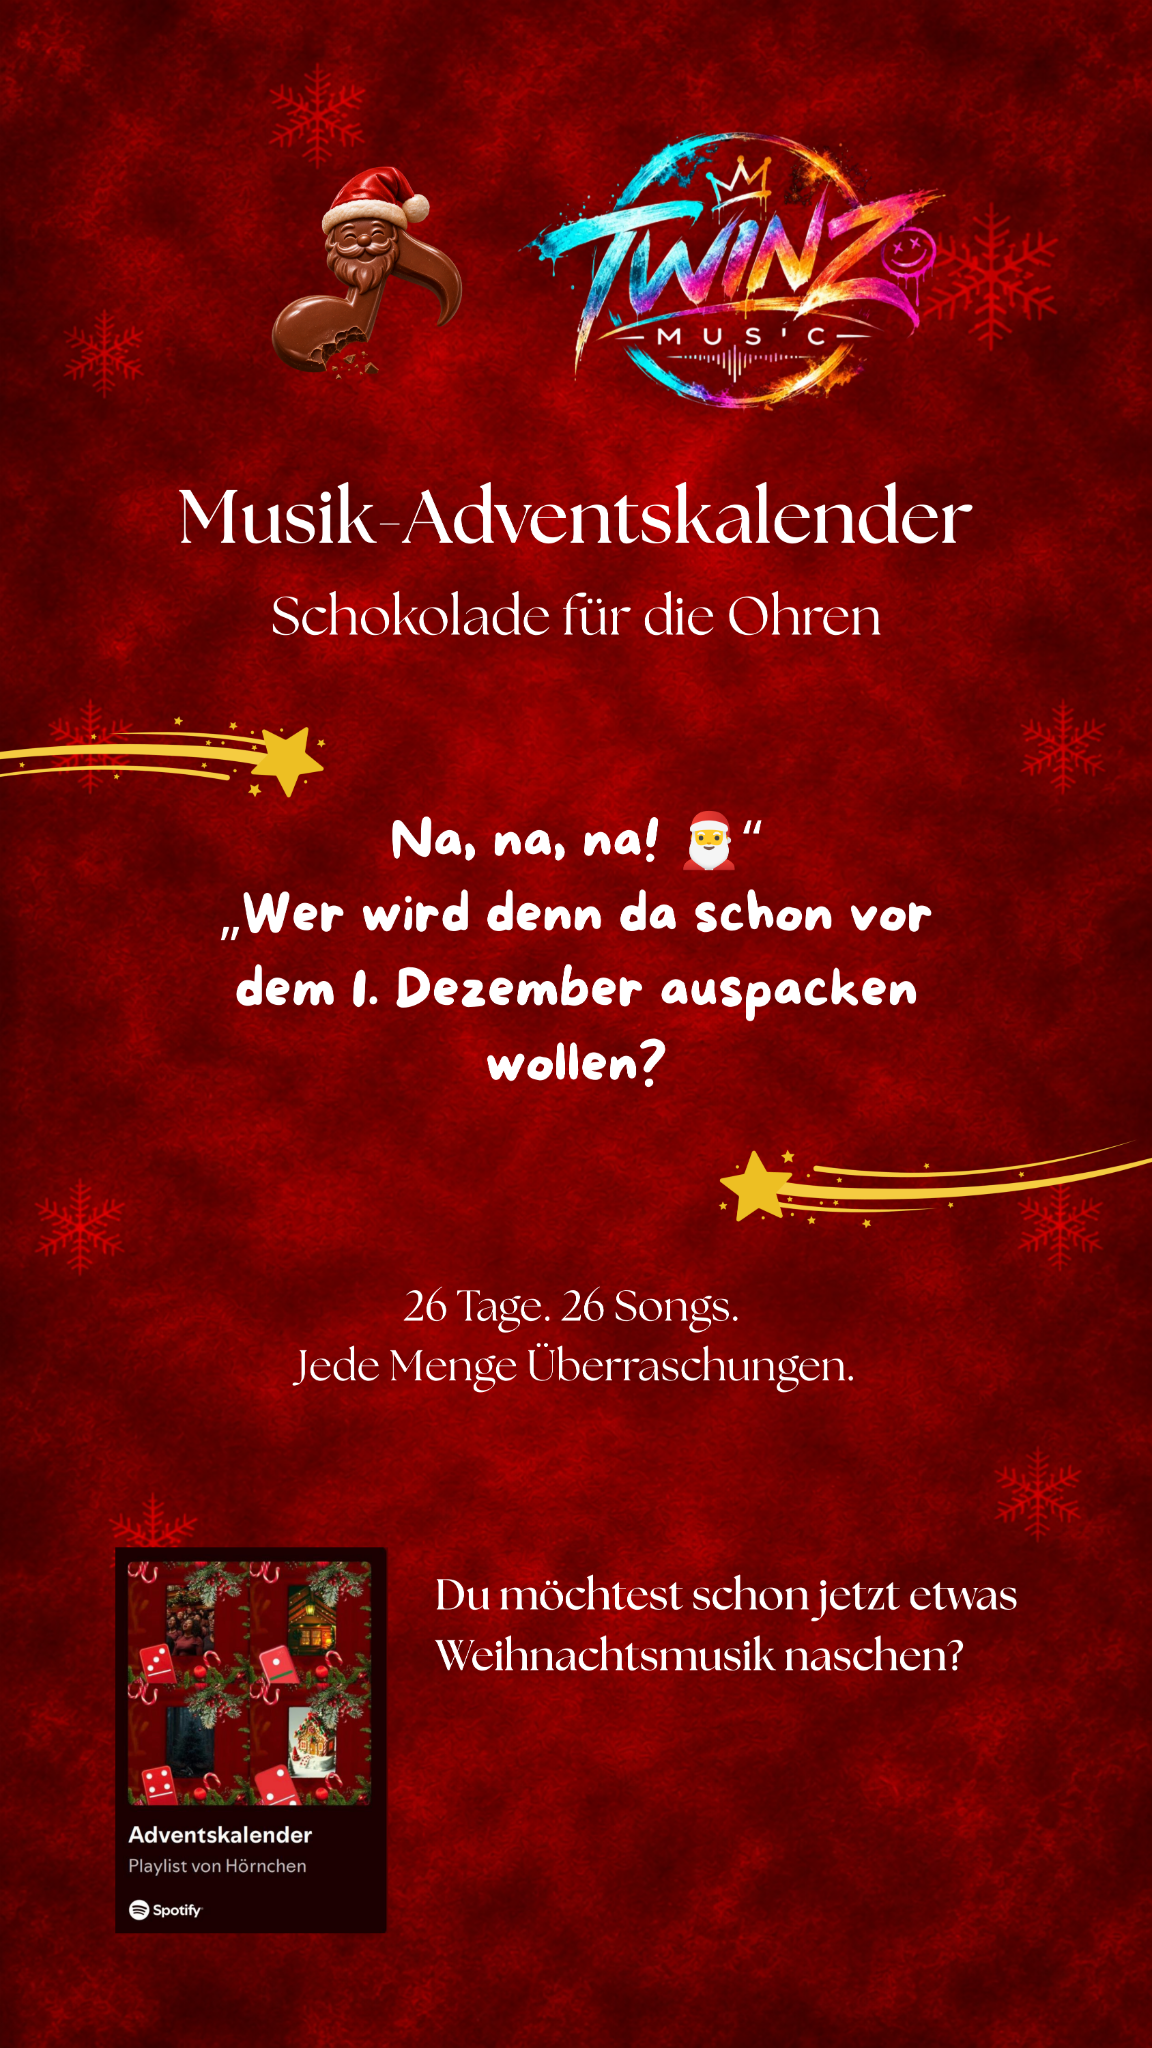
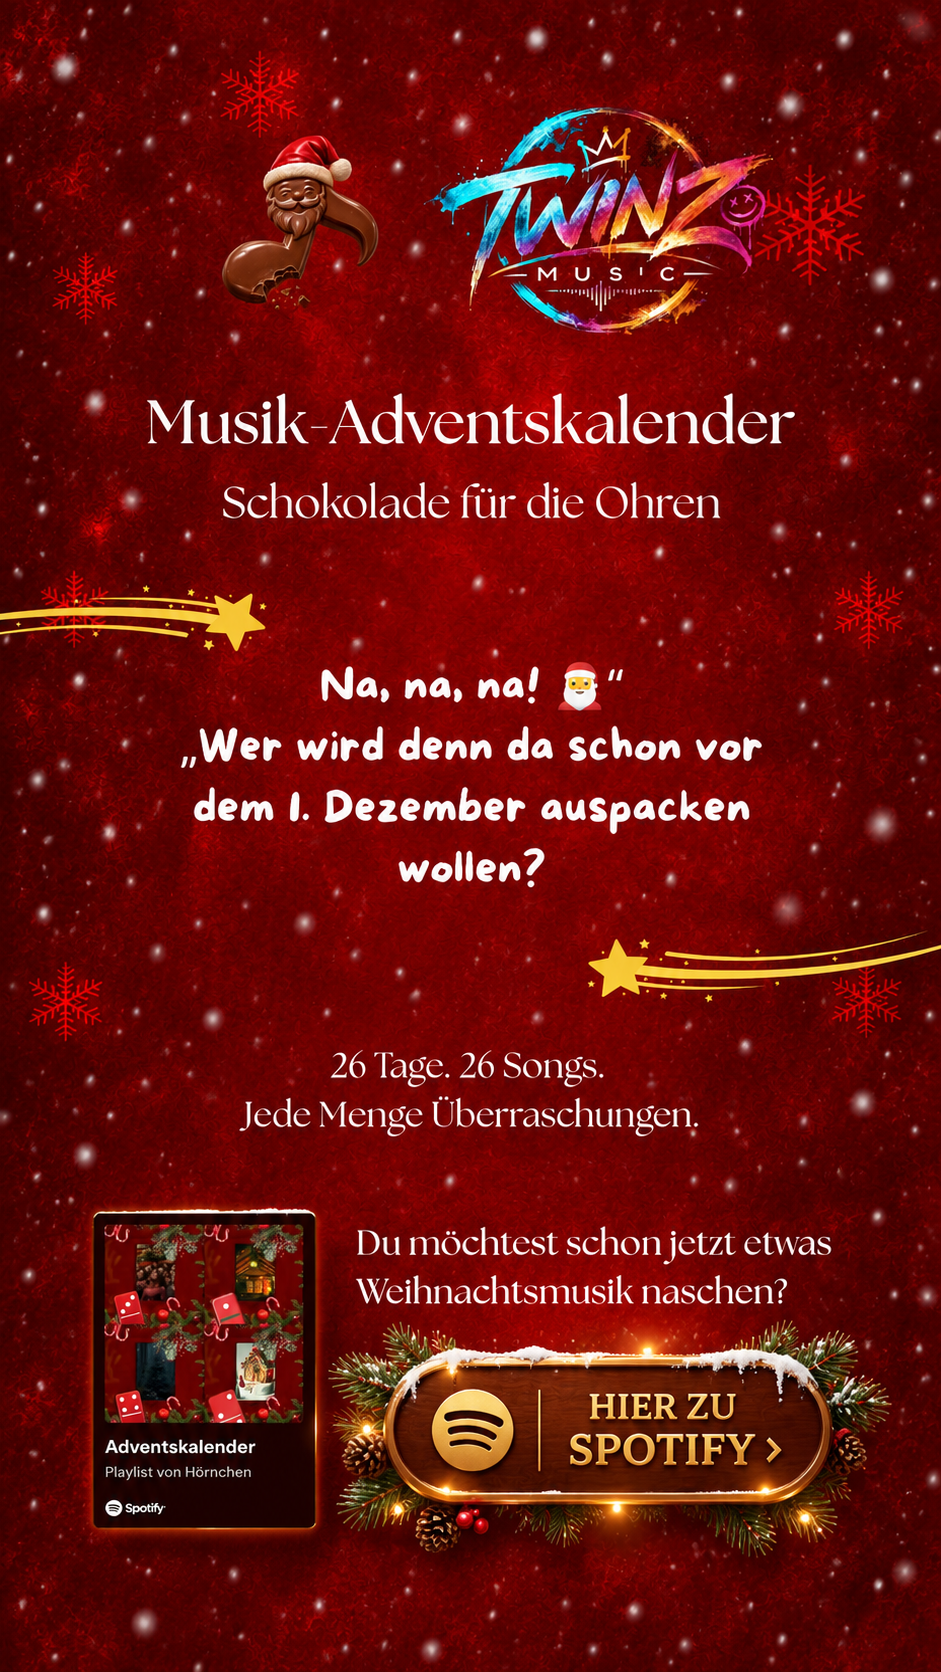
Add files via upload

diff --git a/index.html b/index.html
@@ -6,29 +6,42 @@
 <meta name="theme-color" content="#800000">
 <title>Twinz Music – Musik-Adventskalender</title>
 <style>
-*{box-sizing:border-box}html,body{margin:0;min-height:100%;background:#790000}body{display:flex;justify-content:center}.page{position:relative;width:min(100%,720px);line-height:0;overflow:hidden}.design{display:block;width:100%;height:auto}.spotify{position:absolute;left:7.8%;top:75.8%;width:26.4%;height:19.8%;z-index:2;border-radius:8px;cursor:pointer}.spotify:focus-visible{outline:4px solid #fff;outline-offset:3px}.snow{position:absolute;inset:0;pointer-events:none;overflow:hidden;z-index:3}.flake{position:absolute;top:-3%;left:var(--x);width:var(--s);height:var(--s);background:#fff;border-radius:50%;opacity:var(--o);filter:blur(var(--b));animation:fall var(--d) linear var(--delay) infinite;will-change:transform}@keyframes fall{from{transform:translate3d(0,-20px,0)}to{transform:translate3d(var(--drift),2200px,0)}}@media(prefers-reduced-motion:reduce){.flake{animation:none;display:none}}
+*{box-sizing:border-box}
+html,body{margin:0;min-height:100%;background:#790000}
+body{display:flex;justify-content:center}
+.page{position:relative;width:min(100%,720px);line-height:0;overflow:hidden}
+.design{display:block;width:100%;height:auto}
+.link{position:absolute;z-index:2;display:block;cursor:pointer;border-radius:10px}
+.link:focus-visible{outline:4px solid white;outline-offset:3px}
+.playlist{left:9.3%;top:71.4%;width:24%;height:19.5%}
+.spotify-button{left:39%;top:79%;width:52%;height:11.5%;border-radius:35px}
+.snow{position:absolute;inset:0;pointer-events:none;overflow:hidden;z-index:3}
+.flake{position:absolute;top:-4%;left:var(--x);width:var(--s);height:var(--s);background:white;border-radius:50%;opacity:var(--o);filter:blur(var(--b));animation:fall var(--d) linear var(--delay) infinite;will-change:transform}
+@keyframes fall{from{transform:translate3d(0,-20px,0)}to{transform:translate3d(var(--drift),1800px,0)}}
+@media(prefers-reduced-motion:reduce){.flake{display:none}}
 </style>
 </head>
 <body>
 <main class="page">
-<img class="design" src="design.png" alt="Twinz Music Musik-Adventskalender: Schokolade für die Ohren. Na, na, na! Wer wird denn da schon vor dem 1. Dezember auspacken wollen? 26 Tage, 26 Songs, jede Menge Überraschungen. Du möchtest schon jetzt etwas Weihnachtsmusik naschen?">
-<a class="spotify" href="https://open.spotify.com/playlist/5laQ8Xs4IQW3FDpiucxB6w" target="_blank" rel="noopener noreferrer" aria-label="Adventskalender-Playlist auf Spotify öffnen"></a>
+<img class="design" src="design.png" alt="Twinz Music Musik-Adventskalender: Schokolade für die Ohren. Na, na, na! Wer wird denn da schon vor dem 1. Dezember auspacken wollen? 26 Tage, 26 Songs, jede Menge Überraschungen. Du möchtest schon jetzt etwas Weihnachtsmusik naschen? Hier zu Spotify!">
+<a class="link playlist" href="https://open.spotify.com/playlist/5laQ8Xs4IQW3FDpiucxB6w" target="_blank" rel="noopener noreferrer" aria-label="Adventskalender-Playlist auf Spotify öffnen"></a>
+<a class="link spotify-button" href="https://open.spotify.com/playlist/5laQ8Xs4IQW3FDpiucxB6w" target="_blank" rel="noopener noreferrer" aria-label="Hier zu Spotify – Adventskalender-Playlist öffnen"></a>
 <div class="snow" aria-hidden="true" id="snow"></div>
 </main>
 <script>
 const snow=document.getElementById('snow');
 if(!window.matchMedia('(prefers-reduced-motion: reduce)').matches){
-  for(let i=0;i<65;i++){
-    const f=document.createElement('span');f.className='flake';
-    f.style.setProperty('--x',Math.random()*100+'%');
-    f.style.setProperty('--s',(1+Math.random()*4)+'px');
-    f.style.setProperty('--o',(0.25+Math.random()*0.65).toFixed(2));
-    f.style.setProperty('--b',(Math.random()*1.2).toFixed(1)+'px');
-    f.style.setProperty('--d',(9+Math.random()*14).toFixed(1)+'s');
-    f.style.setProperty('--delay',(-Math.random()*23).toFixed(1)+'s');
-    f.style.setProperty('--drift',(-65+Math.random()*130).toFixed(0)+'px');
-    snow.appendChild(f);
-  }
+ for(let i=0;i<65;i++){
+  const f=document.createElement('span');f.className='flake';
+  f.style.setProperty('--x',Math.random()*100+'%');
+  f.style.setProperty('--s',(1+Math.random()*4)+'px');
+  f.style.setProperty('--o',(0.25+Math.random()*0.65).toFixed(2));
+  f.style.setProperty('--b',(Math.random()*1.2).toFixed(1)+'px');
+  f.style.setProperty('--d',(9+Math.random()*14).toFixed(1)+'s');
+  f.style.setProperty('--delay',(-Math.random()*23).toFixed(1)+'s');
+  f.style.setProperty('--drift',(-65+Math.random()*130).toFixed(0)+'px');
+  snow.appendChild(f);
+ }
 }
 </script>
 </body>
